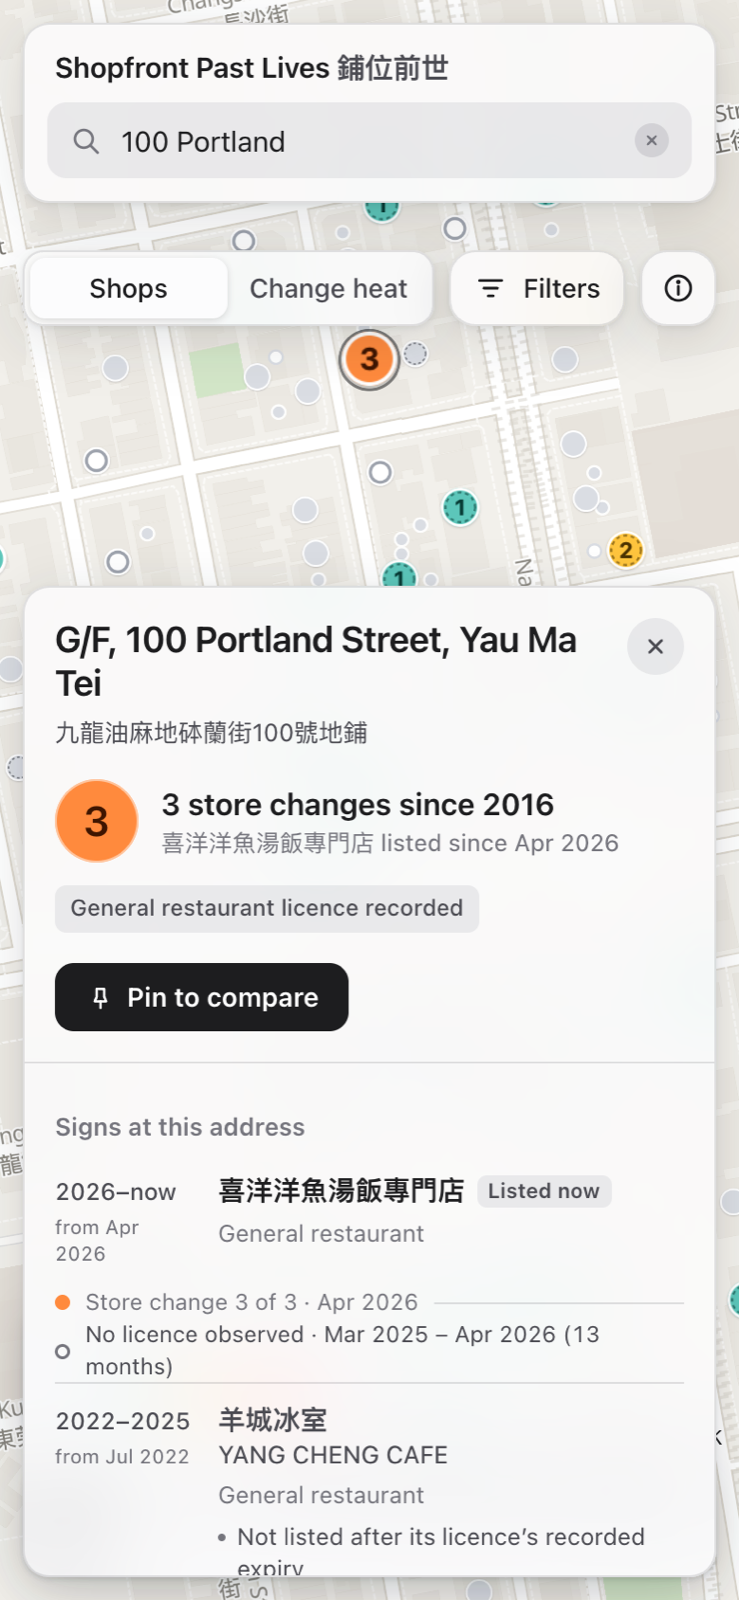
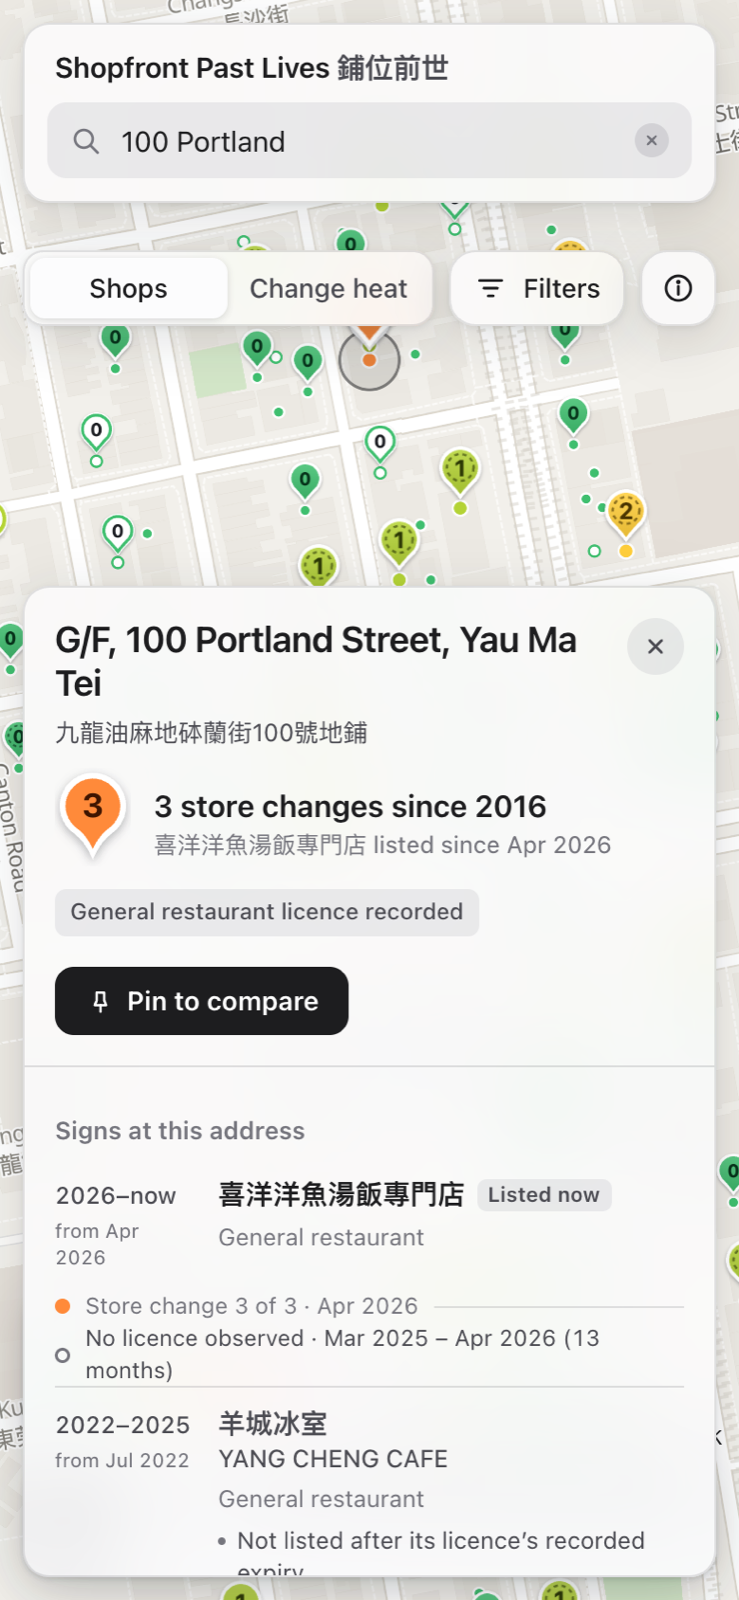
Update DESIGN.md, README and screenshots for pins and new compare

diff --git a/README.md b/README.md
@@ -2,20 +2,20 @@
 
 A map of every shopfront in Yau Tsim (Tsim Sha Tsui, Jordan and Yau Ma Tei) that has held a restaurant licence since 2016, showing how many times each one changed hands.
 
-Each shopfront on the map is a badge with one number: **store changes since 2016**. Grey means the same sign has been listed the whole time. Teal, amber, orange and red mean one, two, three, and four or more different signs took over. Switch on **Change heat** and the streets themselves take on a continuous colour, so you can see at a glance where shops turn over often and where they stay.
+Each shopfront on the map is a pin with one number: **store changes since 2016**. Green means the same sign has been listed the whole time; lime, yellow, orange and red mean one, two, three, and four or more different signs took over. Switch on **Change heat** and the streets themselves take on a continuous colour, so you can see at a glance where shops turn over often and where they stay.
 
-![Map of Yau Tsim with number badges](docs/desktop.png)
+![Map of Yau Tsim with numbered pins](docs/desktop.png)
 
 It is meant as a reference for anyone in the food business choosing a site, from a single noodle shop to a chain's site-selection team. It reports what the public licence lists show and nothing more. It does not predict whether a business will do well, and it never says why a shop left.
 
 ## What you can do with it
 
-- **Scan a district.** Badges show the count for every unit. Zoom out and they become coloured dots.
+- **Scan a district.** Pins show the count for every unit, and the tip marks the shopfront. Zoom out and they become coloured dots.
 - **See the trend.** *Change heat* (off by default) shades the streets by store changes per shop. It is smoothed over about 100 m and left blank wherever fewer than five shops are close by.
 - **Play ten years.** The year bar replays 2016 to 2026. Units whose count rises that year pulse once.
-- **Open a unit.** Click a badge, or search in English or Chinese (`砵蘭街100`, `Hau Fook`, a shop name). A side panel shows every sign at that address, the years each was listed, its licence type, and the licence records behind it.
+- **Open a unit.** Click a pin, or search in English or Chinese (`砵蘭街100`, `Hau Fook`, a shop name). A side panel shows every sign at that address, the years each was listed, its licence type, and the licence records behind it.
 - **Filter.** Street level or all floors, licence type, outside seating, previously licensed with none listed now, and minimum number of changes.
-- **Compare and print.** Pin up to three units to see them on one time axis, then print a sheet that cites its source for every row.
+- **Compare and print.** Pin up to three units to see their signs side by side on one 2016–2026 axis, with each store change marked and the gaps with no licence dashed. Then print a sheet that cites its source for every row.
 
 ![History panel for G/F, 100 Portland Street](docs/panel.png)
 
@@ -113,7 +113,7 @@ data/             snapshots.csv (manifest of files read); raw files and caches a
 web/              Vite + React + TypeScript + MapLibre GL app
   public/data/    exported Yau Tsim data
   public/tiles/   Hong Kong basemap (Protomaps PMTiles extract)
-  src/map/        map layers, badges, basemap style
+  src/map/        map layers, pins, basemap style
   src/components/ search, filters, panel, compare, legend, year bar
 docs/             screenshots
 PRODUCT.md        product brief
